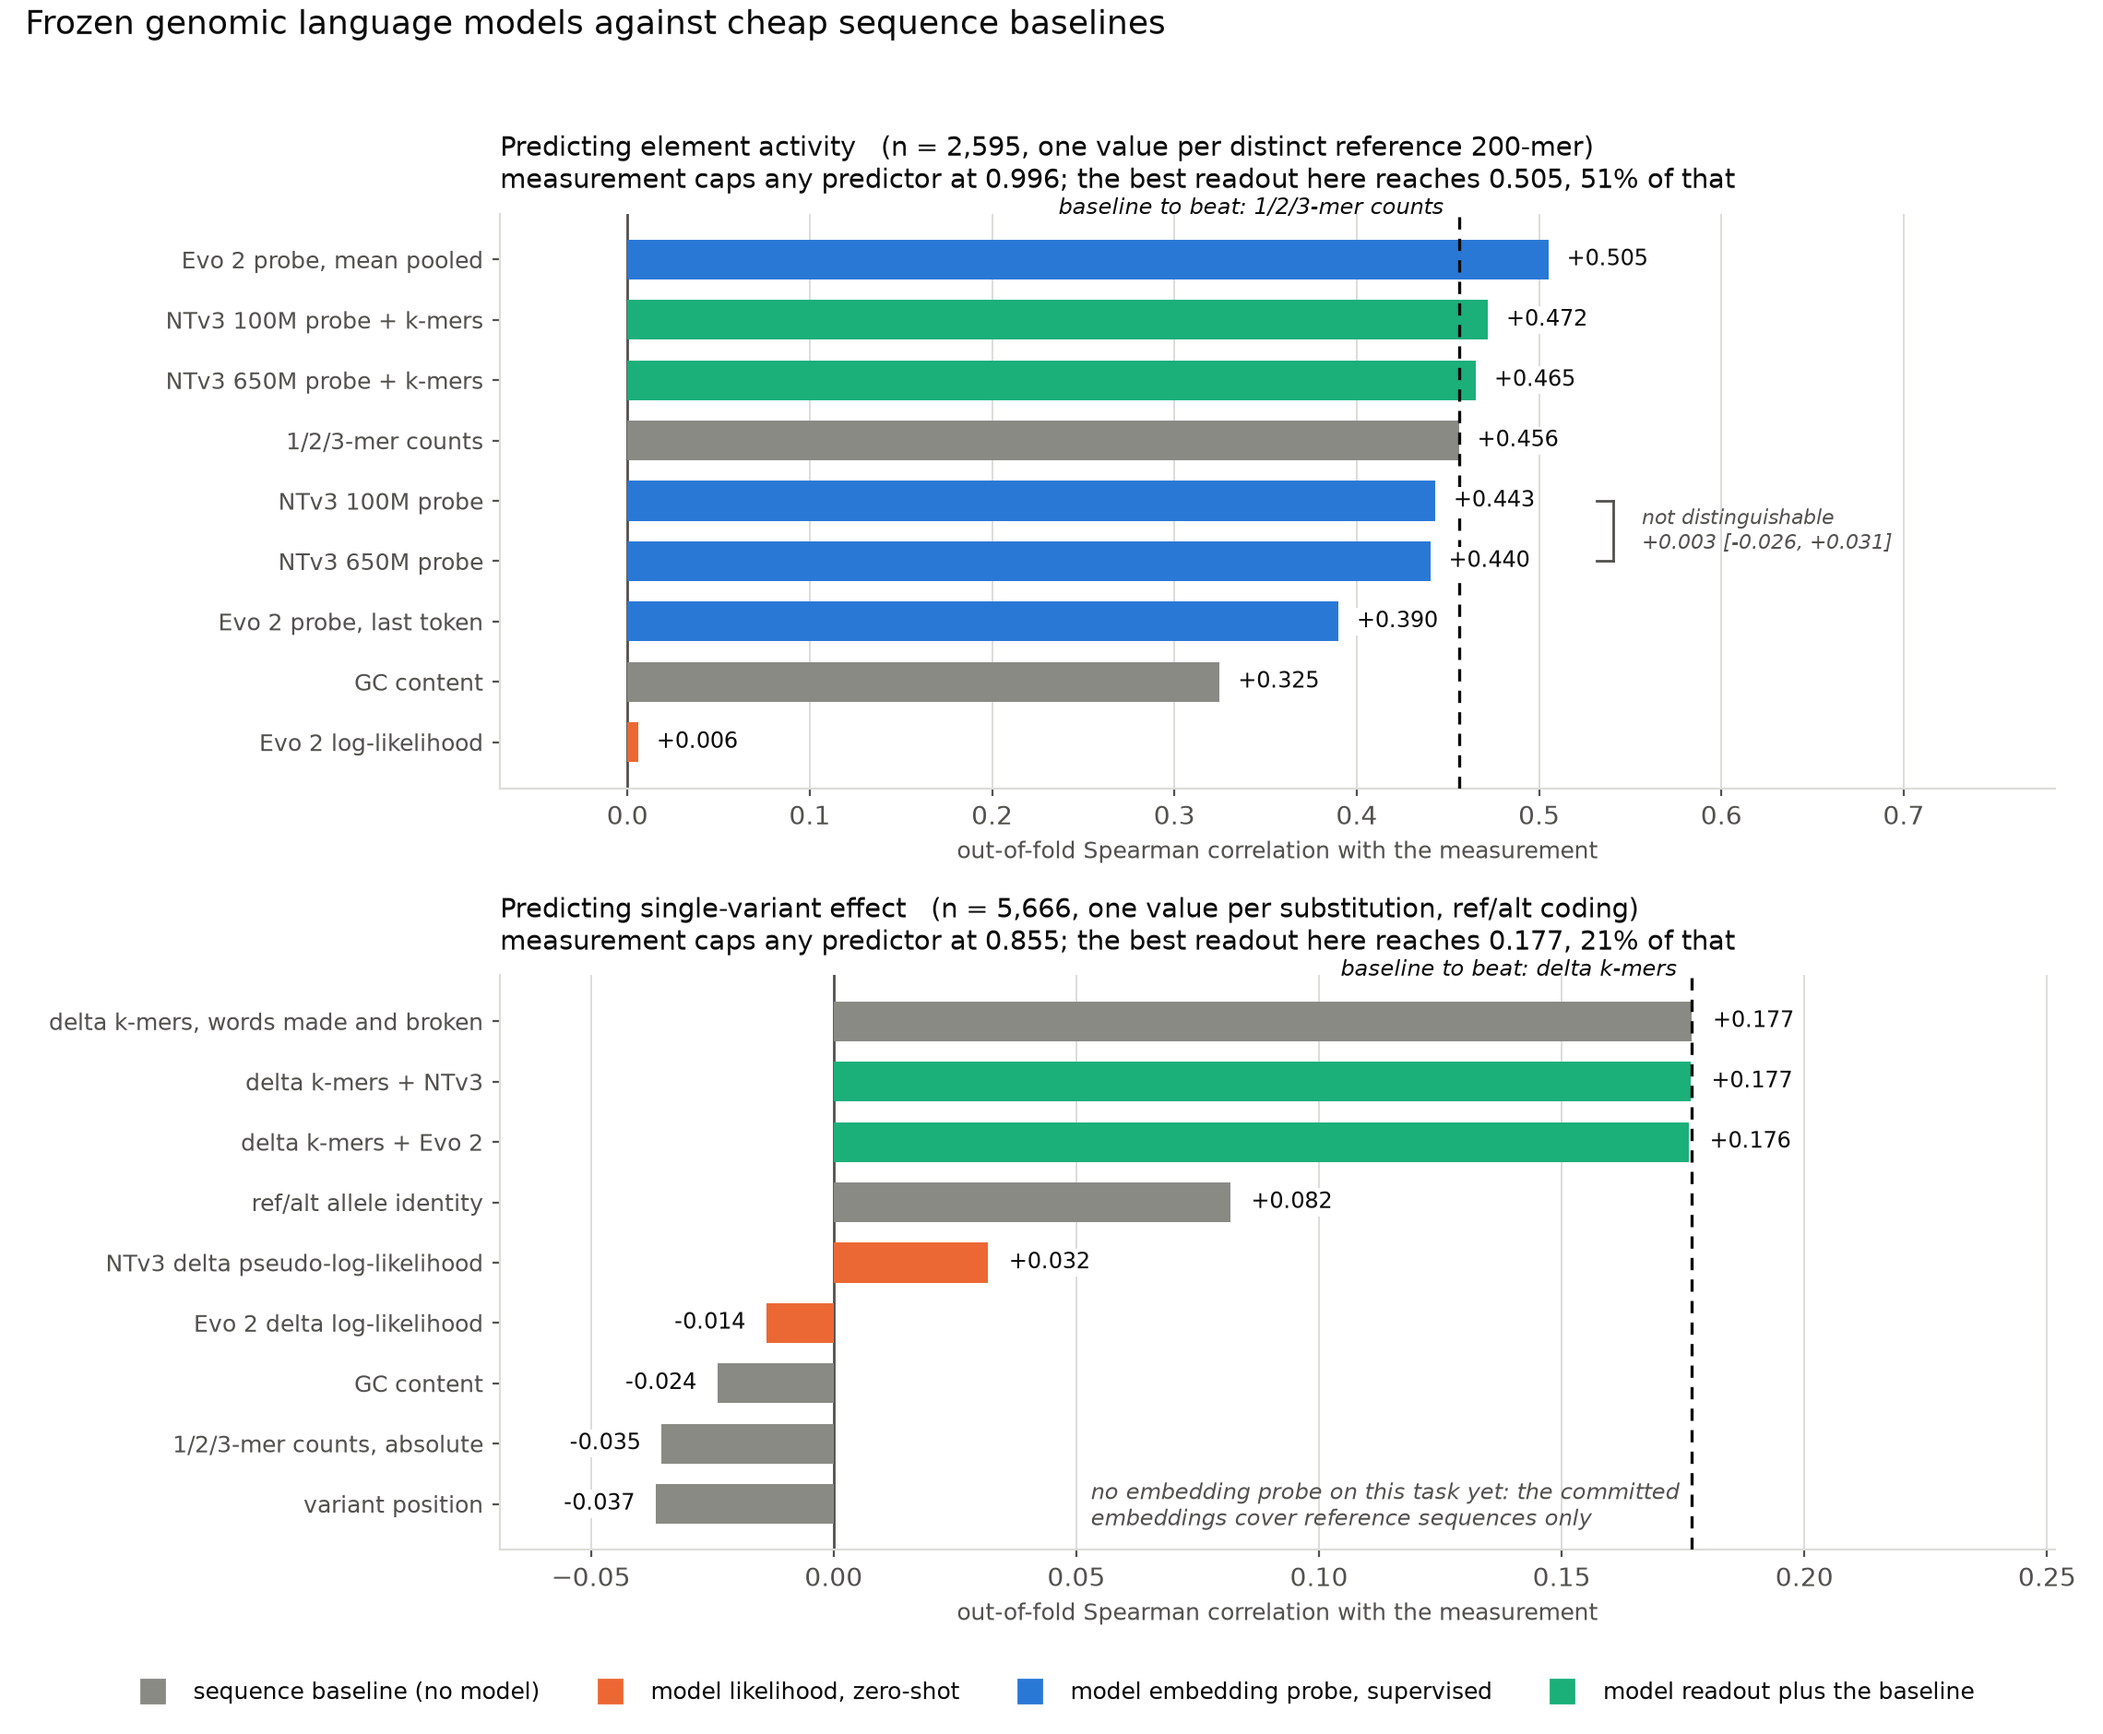
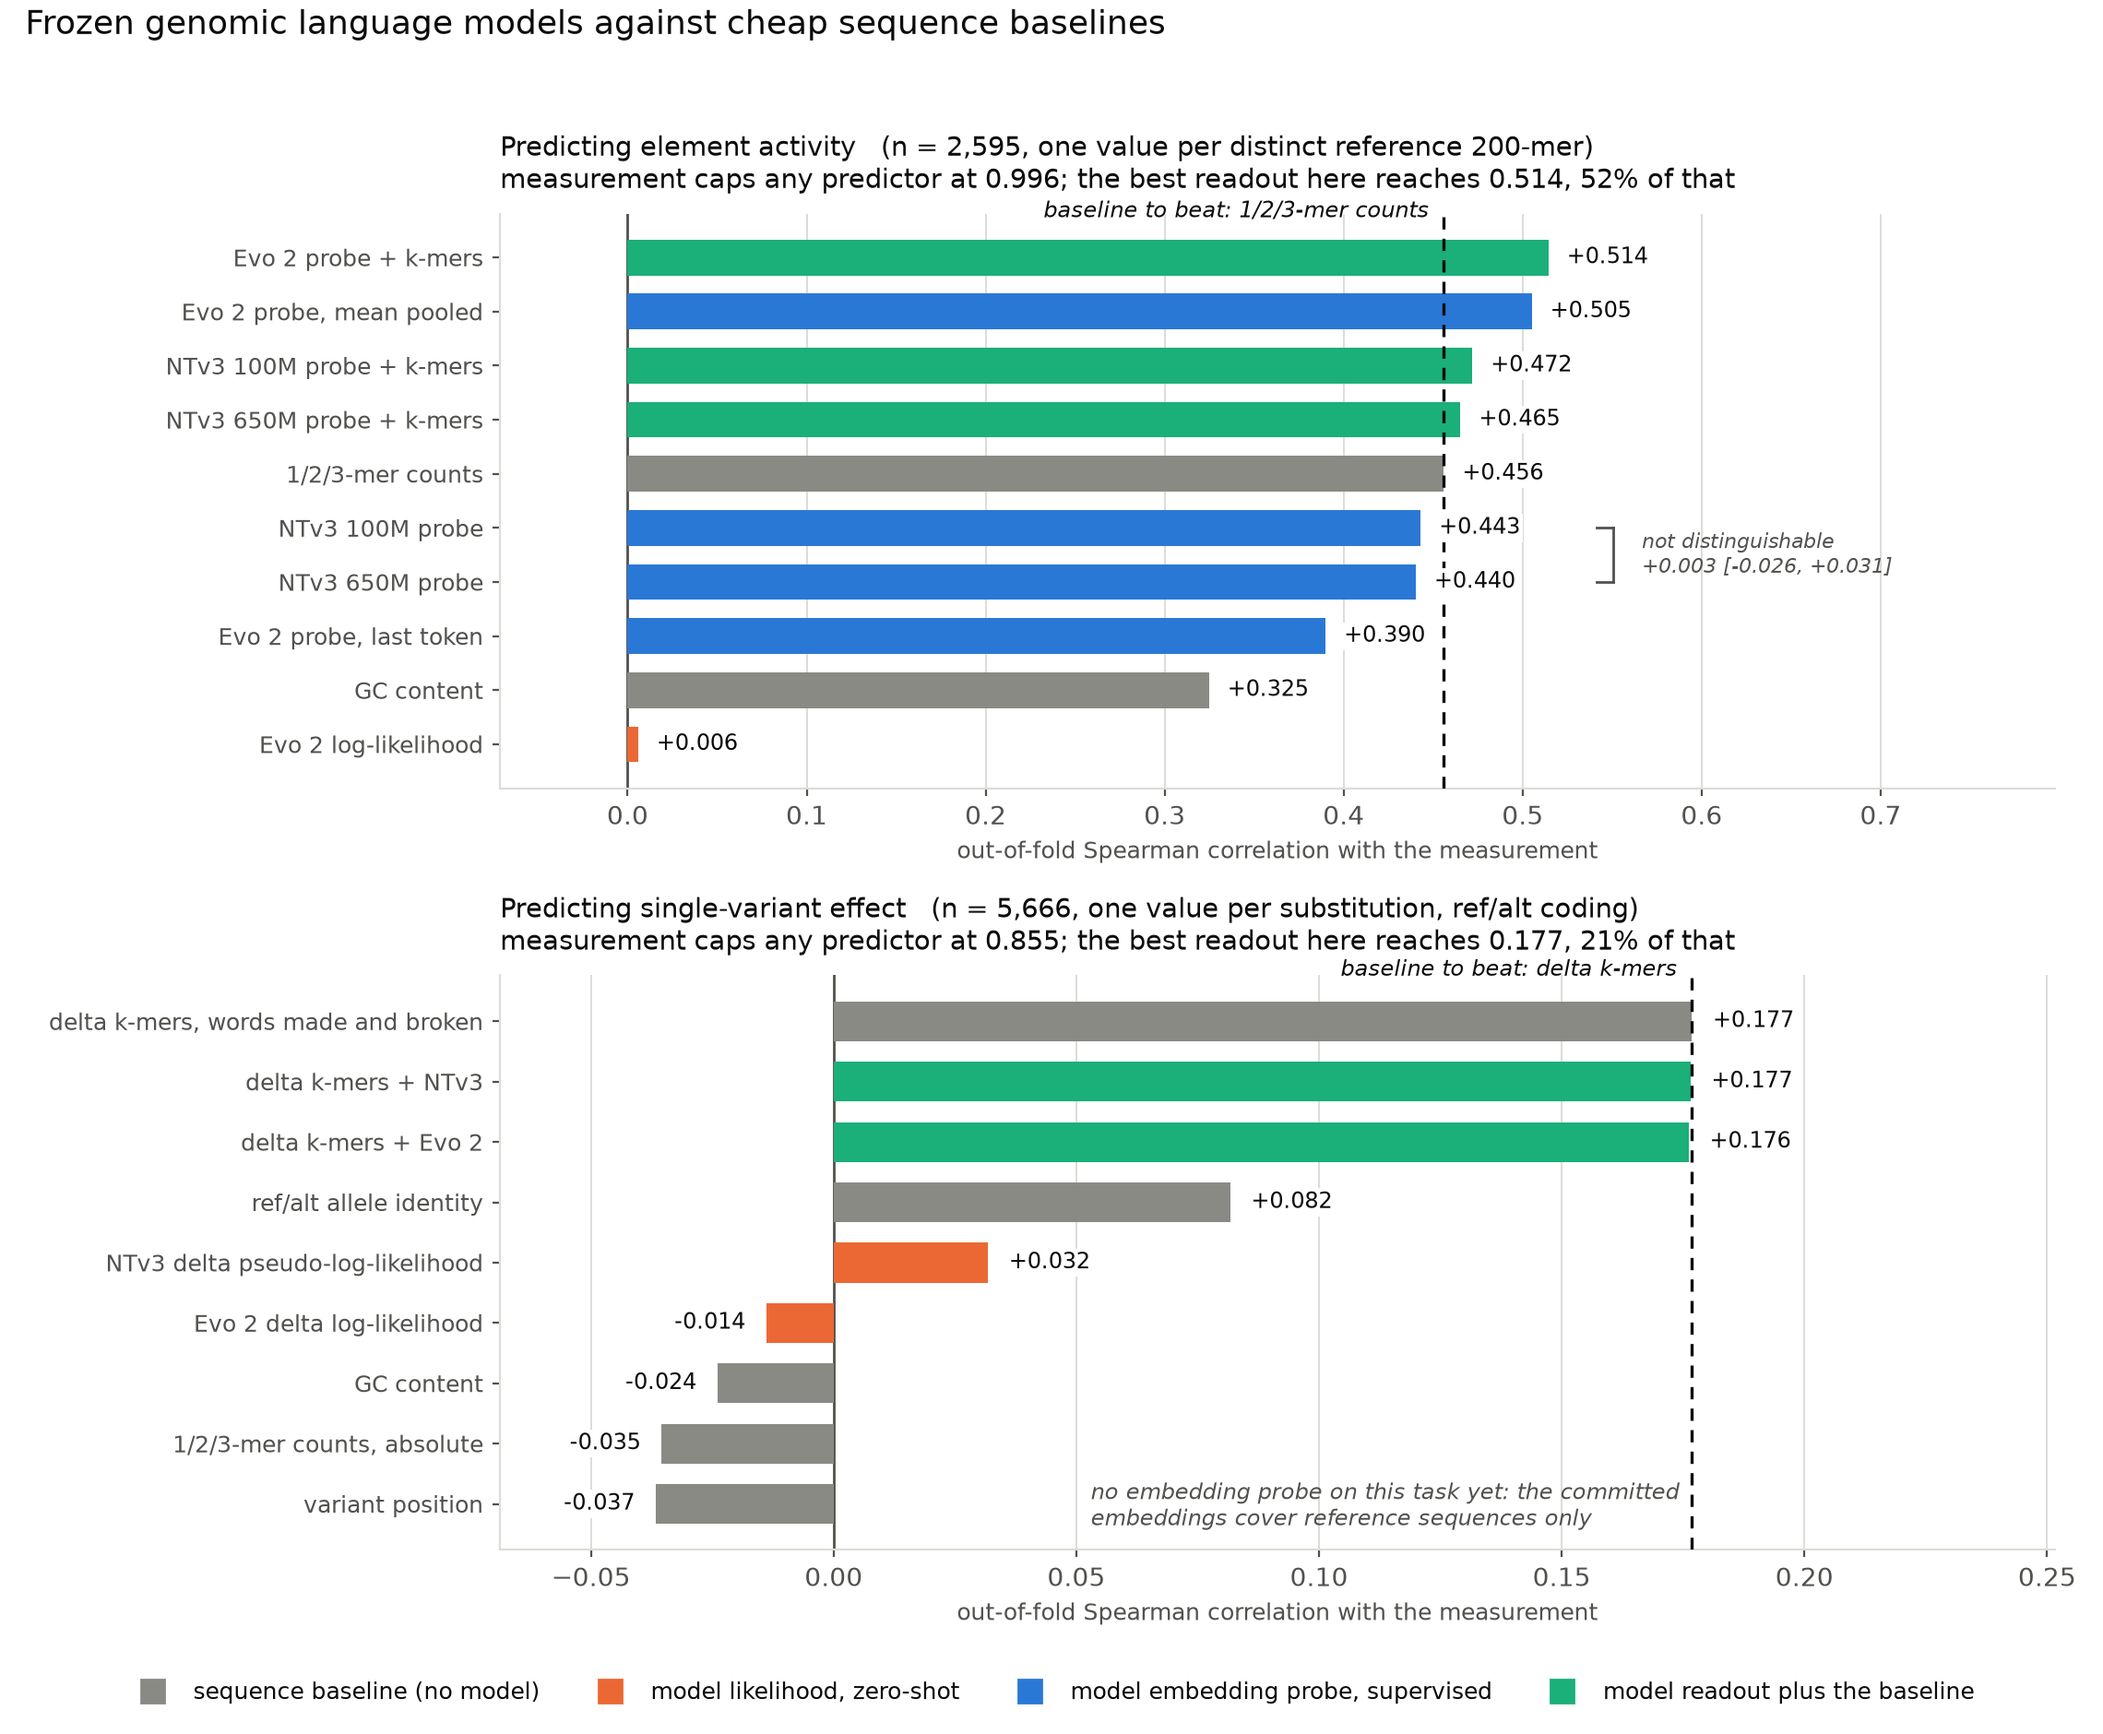
Give Evo 2 the probe-plus-k-mers row it was missing, and add a probes-only chart
The combined green bars existed for NTv3 and not for Evo 2, which made
the chart look like Evo 2 had failed a comparison it was never entered
in. The cause was the probe scripts, not the figure: ntv3_probe.py fits
hstack([X, km]) as a fourth row and evo_probe.py did not.

evo_probe.py now fits the same row, and both Evo probe outputs are
regenerated. Mean pooled: probe +0.5051, probe + word counts +0.5144.
Against k-mers alone the combined fit gains +0.0584, 95% interval
[+0.0267, +0.0888]; against the probe alone it gains +0.0093, interval
[+0.0061, +0.0126]. Last-token pooling: +0.3899 and +0.4234.

The captioned figure gains that row and a caption block saying what
"+ k-mers" is: the embedding columns and the 84 word-count columns in
one feature matrix under a single ridge, not an ensemble and not extra
information at inference.

element_activity_probes_only.png is the same panel with the supervised
combinations dropped, for a like-for-like comparison of the embeddings.

Claude-Session: https://claude.ai/code/session_01ACZsXcJ4wd3MdfbWdZ2sJf

diff --git a/make_figures.py b/make_figures.py
@@ -78,6 +78,11 @@ ELEMENT_CAPTION = (
     "width 768 for 100M and 1536 for 650M.  Model weights are never updated.  The likelihood bar is the model's own\n"
     "sequence score with nothing fitted on top.\n"
     "\n"
+    "What \"+ k-mers\" means.  The embedding columns and the 84 word-count columns glued side by side into one\n"
+    "feature matrix, with a single ridge fitted on all of it at once.  Not an ensemble, and not extra information given\n"
+    "to the model: it asks whether the embedding carries anything the letter counts do not, which a probe sitting just\n"
+    "below the k-mer line cannot answer on its own.\n"
+    "\n"
     "What the 0.996 cap means.  It is the reliability of the measurement itself, sqrt(1 - mean SE\u00b2 / var(activity)).\n"
     "A predictor that knew each element's true activity exactly would still correlate only that well with these noisy\n"
     "readings, so it is the highest score anything could reach here.\n"
@@ -121,6 +126,8 @@ def collect(results):
         ("NTv3 650M probe + k-mers", probe_value(n650, "NTv3 hidden layer + word counts"), "combined"),
         ("NTv3 100M probe + k-mers", probe_value(n100, "NTv3 hidden layer + word counts"), "combined"),
         ("Evo 2 probe, mean pooled", probe_value(evo, "Evo hidden layer blocks.26.mlp.l3 (probe)"), "probe"),
+        ("Evo 2 probe + k-mers",
+         probe_value(evo, "Evo hidden layer blocks.26.mlp.l3 (probe) + word counts"), "combined"),
     ]
     element_margins = [
         ("Evo 2 probe, mean pooled", *probe_margin(evo), "probe"),
@@ -319,7 +326,7 @@ def main():
     plt.close(figure)
 
     # The element panel on its own, with the method spelled out underneath.
-    figure, axis = plt.subplots(1, 1, figsize=(11.4, 8.2))
+    figure, axis = plt.subplots(1, 1, figsize=(11.4, 10.2))
     figure.patch.set_facecolor("white")
     bar_panel(axis, data["element"])
     axis.set_xlabel("out-of-fold Spearman correlation with the measurement",
@@ -328,16 +335,31 @@ def main():
                           label=KIND_LABEL[k])
                for k in ("baseline", "likelihood", "probe", "combined")]
     figure.legend(handles=handles, loc="upper center", ncol=4, frameon=False,
-                  fontsize=9, labelcolor=INK, bbox_to_anchor=(0.5, 0.545))
-    figure.tight_layout(rect=(0, 0.565, 1, 1.0))
-    figure.text(0.012, 0.485, ELEMENT_CAPTION, fontsize=8.4, color=INK,
+                  fontsize=9, labelcolor=INK, bbox_to_anchor=(0.5, 0.535))
+    figure.tight_layout(rect=(0, 0.555, 1, 1.0))
+    figure.text(0.012, 0.50, ELEMENT_CAPTION, fontsize=8.4, color=INK,
                 ha="left", va="top", linespacing=1.5)
     third = args.out / "element_activity_captioned.png"
     figure.savefig(third, dpi=200, facecolor="white")
     plt.close(figure)
 
+    # Probe against probe, with the supervised combinations dropped: the same
+    # question asked of each model's embedding with nothing else in the fit.
+    probes_only = dict(data["element"])
+    probes_only["rows"] = [r for r in data["element"]["rows"] if r[2] != "combined"]
+    figure, axis = plt.subplots(1, 1, figsize=(11.4, 4.6))
+    figure.patch.set_facecolor("white")
+    bar_panel(axis, probes_only)
+    axis.set_xlabel("out-of-fold Spearman correlation with the measurement",
+                    fontsize=9, color=MUTED)
+    legend(figure, ["baseline", "likelihood", "probe"])
+    figure.tight_layout(rect=(0, 0.09, 1, 1.0))
+    fourth = args.out / "element_activity_probes_only.png"
+    figure.savefig(fourth, dpi=200, facecolor="white")
+    plt.close(figure)
+
     (args.out / "figure_data.json").write_text(json.dumps(data, indent=2) + "\n")
-    print(f"wrote {first}\nwrote {second}\nwrote {third}\nwrote {args.out / 'figure_data.json'}")
+    print(f"wrote {first}\nwrote {second}\nwrote {third}\nwrote {fourth}\nwrote {args.out / 'figure_data.json'}")
 
 
 if __name__ == "__main__":

diff --git a/evo_probe.py b/evo_probe.py
@@ -184,7 +184,8 @@ def probe(embeddings, pooling="mean", pred=PRED, audit=AUDIT, folds=5,
     for name, feat in [("Evo score (1 feature)", el[["s_wt"]].values),
                        ("GC content (1 feature)", gc),
                        ("DNA word counts (84 features)", km),
-                       (probe_name, X)]:
+                       (probe_name, X),
+                       (f"{probe_name} + word counts", np.hstack([X, km]))]:
         preds[name] = out_of_fold(feat, y, g, folds)
         rows.append((name, spearmanr(preds[name], y).statistic,
                      float(np.sqrt(np.mean((preds[name] - y) ** 2)))))
